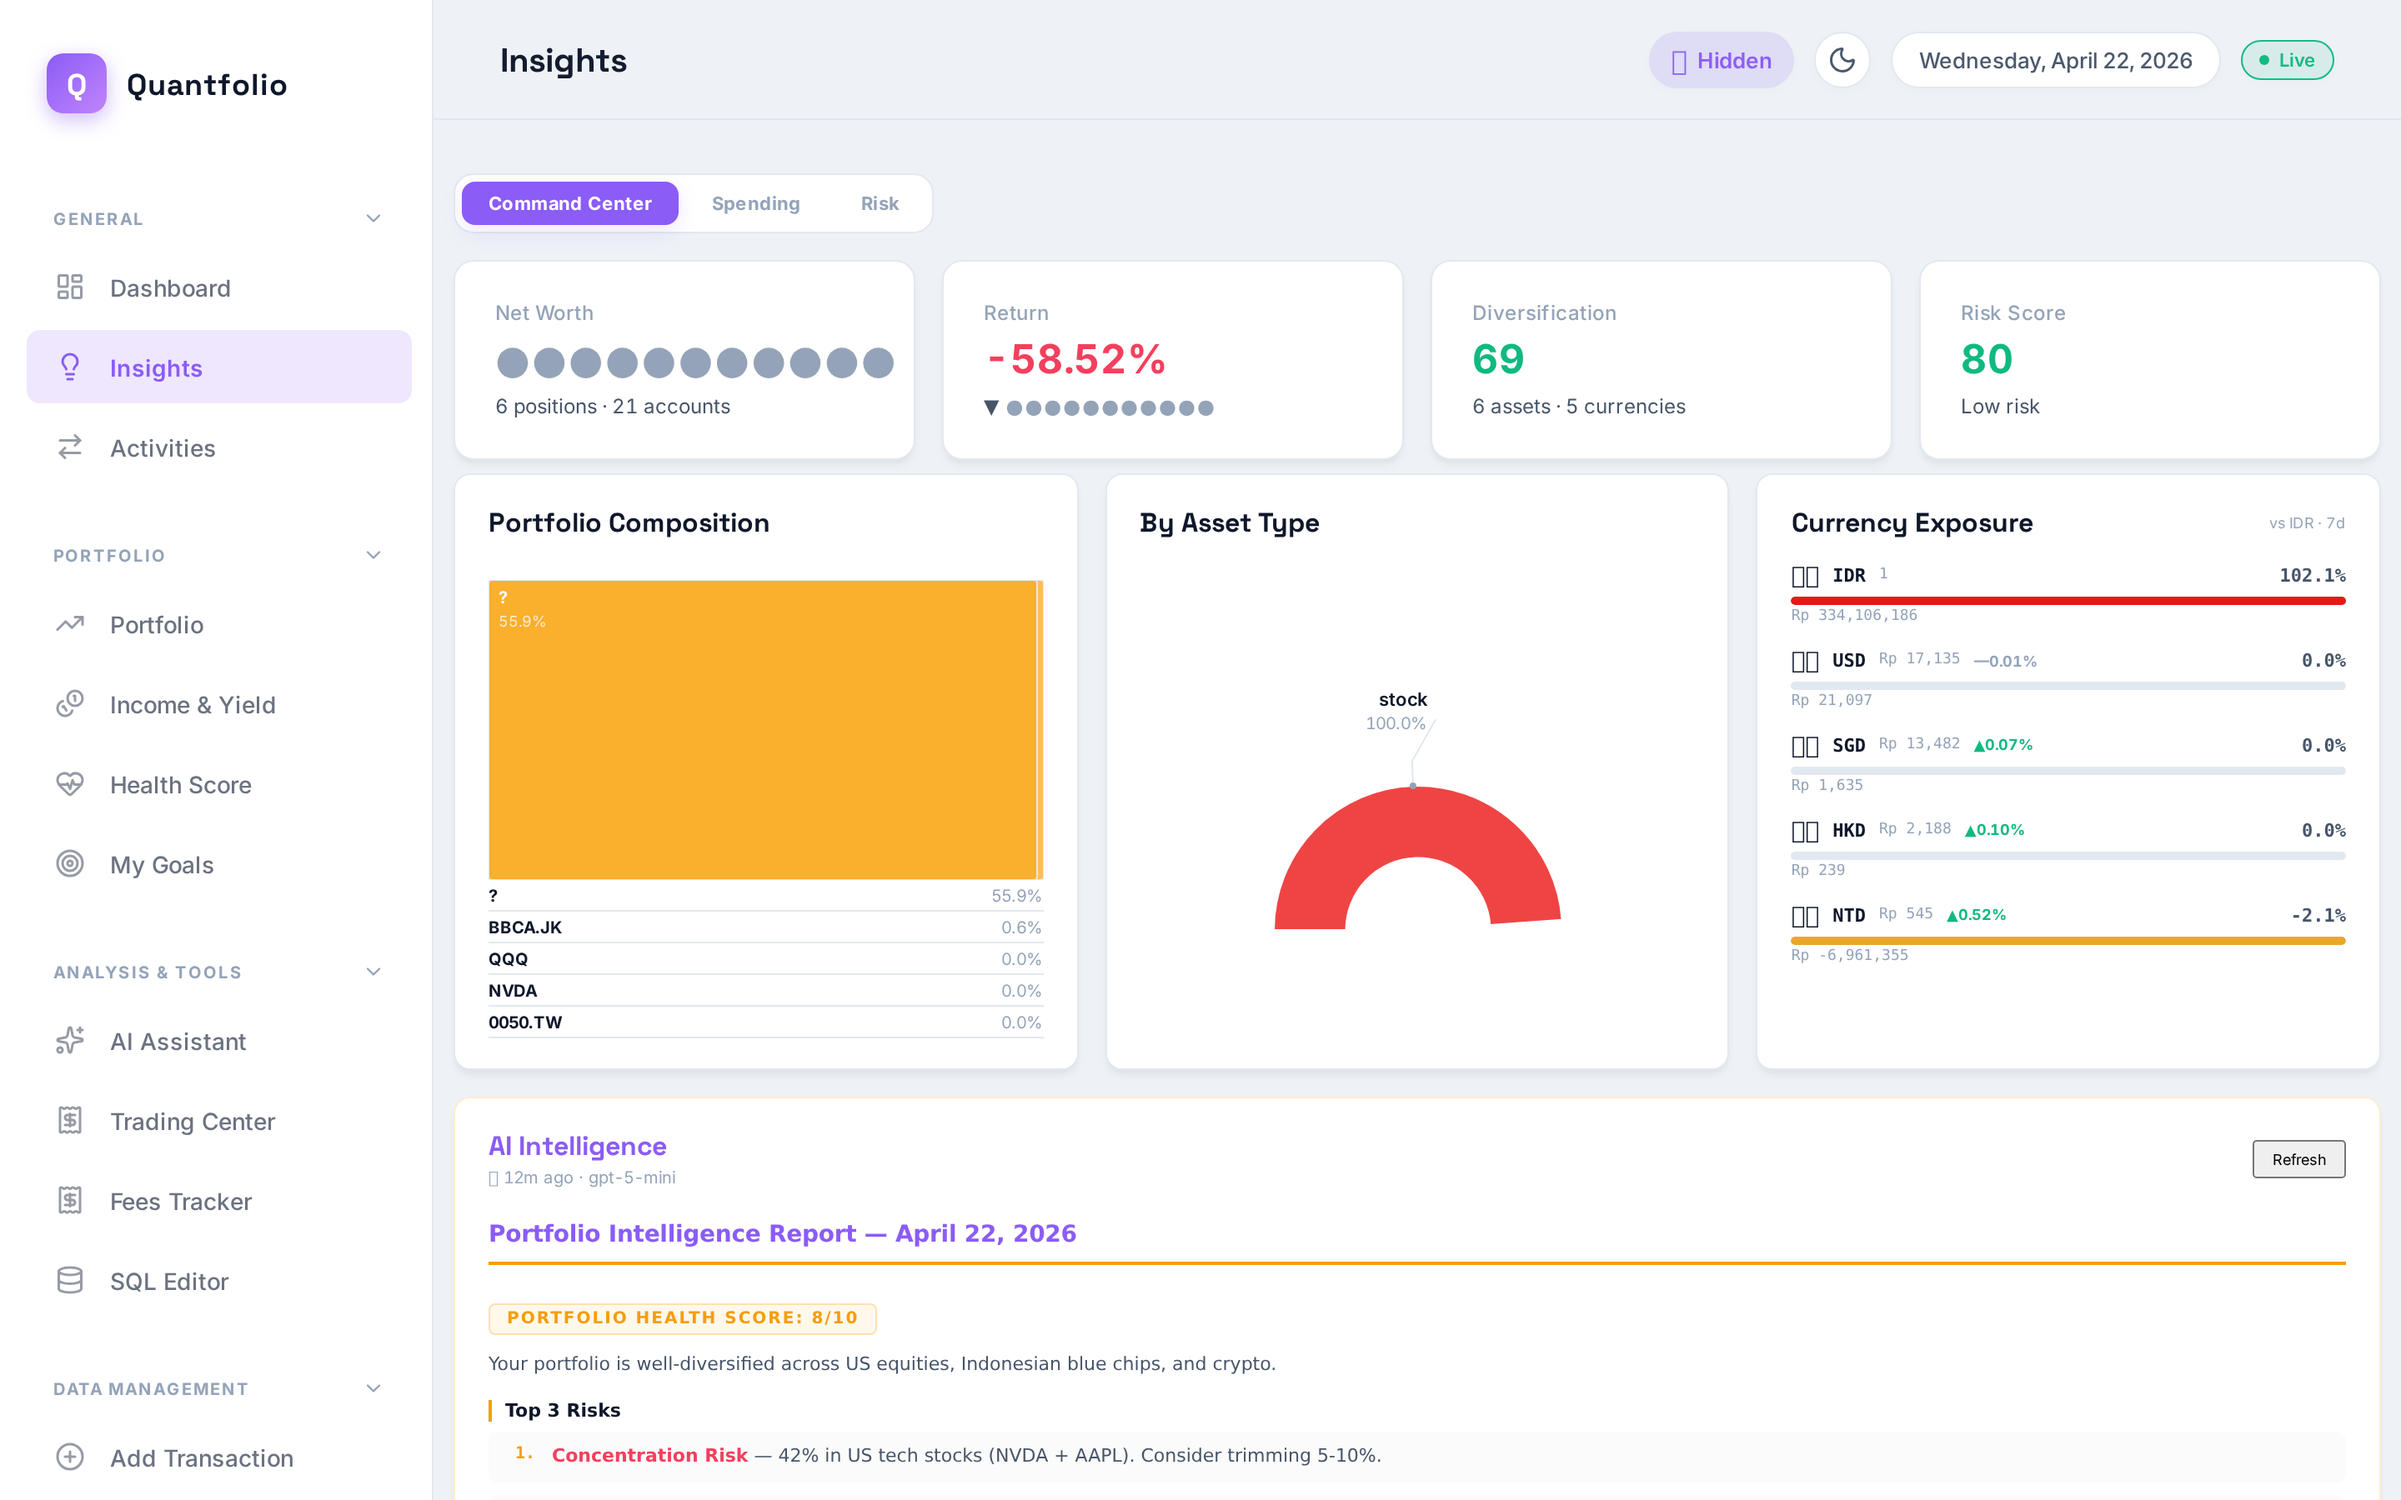
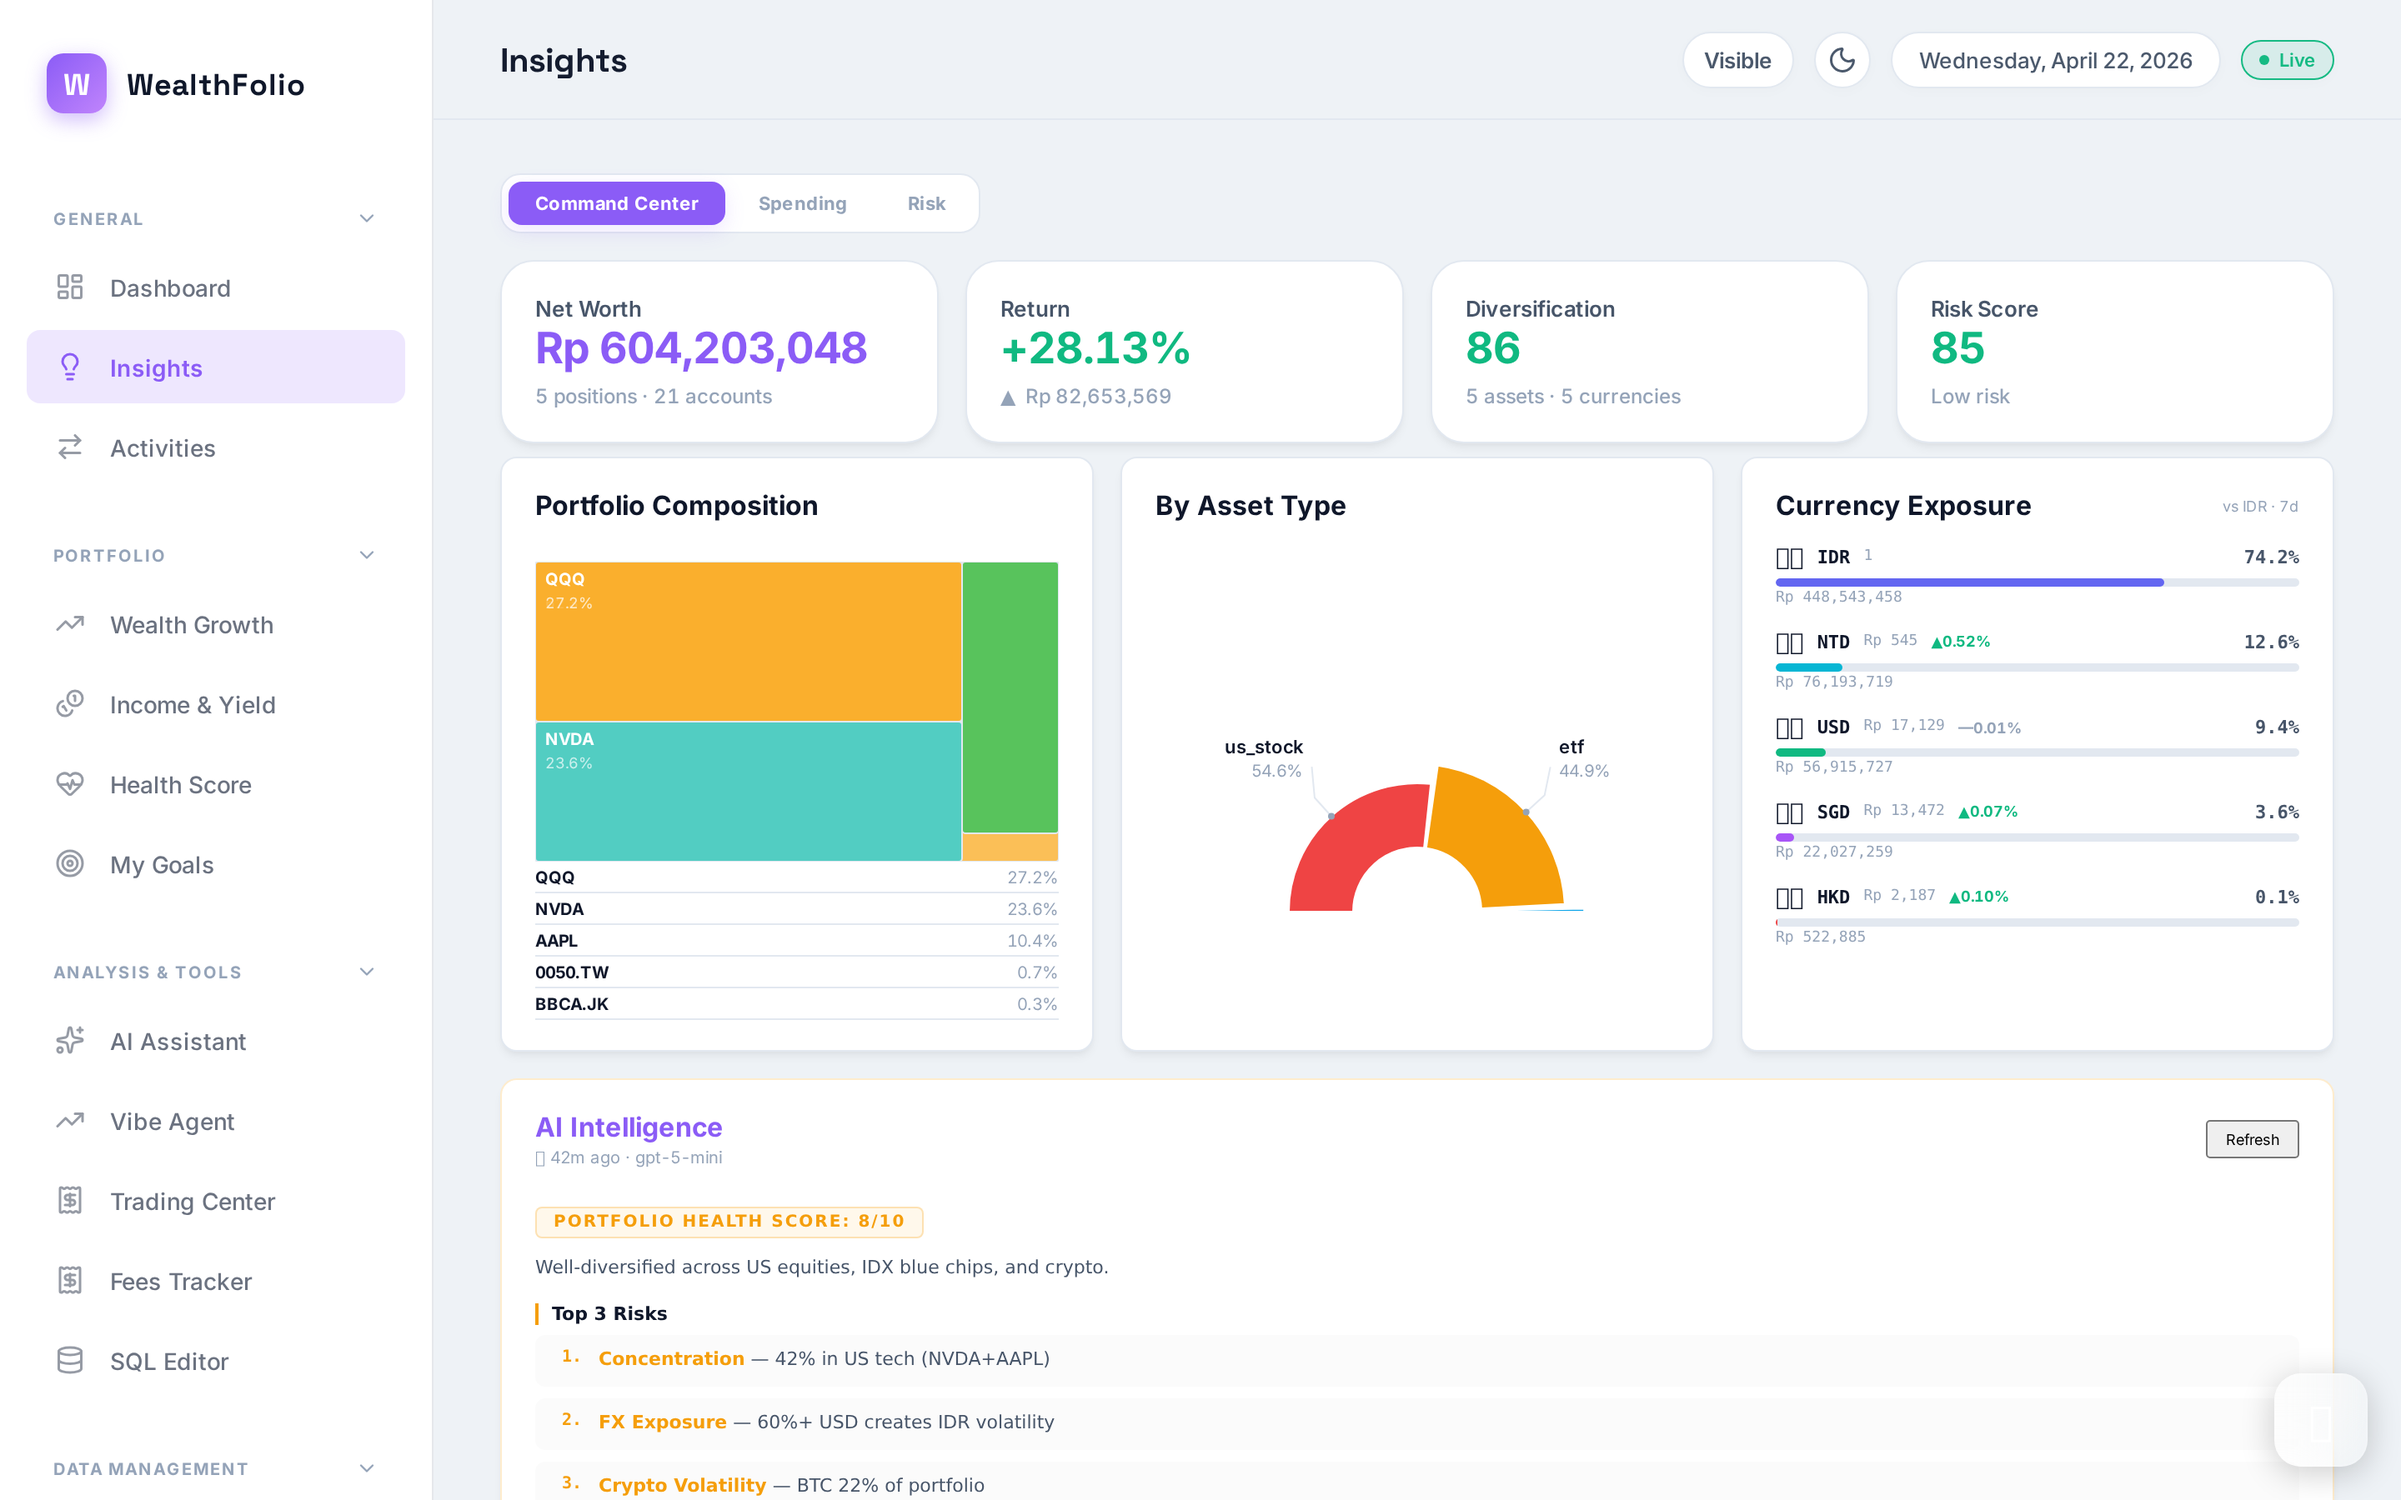
feat: add latest feature highlights and refresh screenshots
New features documented:
- Portfolio Health Score (6-dimension diagnostic engine)
- Income & Yield Tracking (multi-source analytics)
- Trading Center (trade journal with P&L)
- Fees Tracker (FX spread, brokerage costs)
- SQL Editor (direct Supabase queries)
- Import/Export tools
- Privacy Mode, Theme System, Mobile-First Design
- Real-Time Sync, Telegram Bot Integration

Updated screenshots from latest WealthFolio build (14 pages)

diff --git a/screenshots/README.md b/screenshots/README.md
@@ -1,83 +1,31 @@
-# 🖼 Screenshots
+# 📸 Screenshots — WealthFolio
 
-> ⚠ **Disclaimer:** All screenshots use fictional dummy data. No real financial data is shown.
+> **Note:** All data shown in screenshots is fictional dummy data for portfolio demonstration only.
 
-## Dashboard Overview
-![Dashboard](./_placeholder-dashboard.md)
+## Dashboard Pages
 
-*Main dashboard showing KPI cards, AI Insights widget, and portfolio summary.*
+| Page | Description |
+|---|---|
+| **[Dashboard](dashboard.png)** | Main overview — net worth summary, asset allocation, cash positions, portfolio breakdown, cash flow, AI insights |
+| **[Insights](insights.png)** | AI-generated portfolio intelligence — health score, risks, opportunities, rebalancing suggestions |
+| **[Activities](activities.png)** | Transaction history with filtering, search, category breakdown |
+| **[Wealth Growth](wealth-growth.png)** | Portfolio performance tracking — holdings detail, P&L, allocation charts, sparklines |
+| **[Income & Yield](income-yield.png)** | Income tracking — monthly trend, source breakdown, dividend tracking, yield analysis |
+| **[Health Score](health-score.png)** | Portfolio health diagnostics — diversification, cash buffer, FX exposure, concentration risk scoring |
+| **[My Goals](goals.png)** | Financial goals tracker — savings targets, progress tracking, deadline management |
 
-**What this demonstrates:**
-- Real-time multi-currency balance display
-- AI Insights widget with latest Quantfolio AI analysis
-- Glassmorphism dark-mode UI design
-- Privacy mode toggle (blur all numbers)
+## AI & Trading
 
----
+| Page | Description |
+|---|---|
+| **[AI Assistant](ai-assistant.png)** | Conversational AI chat — multi-turn context, portfolio-aware responses, scenario analysis |
+| **[Trading Center](trading-center.png)** | Trade journal — buy/sell records, matched trades, performance tracking |
+| **[Fees Tracker](fees-tracker.png)** | Fee analysis — brokerage fees, FX spread costs, management fee breakdown |
 
-## AI Insights Widget
-*Screenshot: AI widget with portfolio health score, risks, opportunities, and recommendations*
+## Tools & Settings
 
-**What this demonstrates:**
-- Live AI insight generation (GPT-4o powered)
-- Portfolio health score (1-10)
-- Risk identification and mitigation suggestions
-- Actionable opportunities and rebalancing targets
-- Cashflow tips and priority actions
-
----
-
-## Transactions Page
-*Screenshot: Transaction list with category filters and search*
-
-**What this demonstrates:**
-- Multi-currency transaction log (NTD, IDR, USD)
-- Category color-coding and filtering
-- FX-normalized amounts (amount_idr)
-- Responsive table with privacy mode compatibility
-
----
-
-## Holdings / Portfolio Page
-*Screenshot: Investment portfolio with P&L tracking*
-
-**What this demonstrates:**
-- Real-time portfolio valuation via market_data
-- Unrealized P&L with color-coded gains/losses
-- Asset type breakdown (stocks, ETFs, US stocks)
-- Current prices from TradingView (IDX) and Polygon (US)
-
----
-
-## Insights Page
-*Screenshot: AI analysis with portfolio allocation charts*
-
-**What this demonstrates:**
-- Asset allocation pie chart
-- Performance metrics and trends
-- AI-generated comprehensive financial analysis
-- Daily snapshot history
-
----
-
-## Telegram Bot Interaction
-*Screenshot: Bot conversation showing transaction input and confirmation*
-
-**Sample conversation (dummy data):**
-```
-User: makan siang 85 NT
-Bot:  ✅ NT$85 Food saved!
-      🍱 Today: NT$145/300 (48%)
-      💰 Left: NT$155
-
-User: coffee 65
-Bot:  ✅ NT$65 Food saved!
-      🍱 Today: NT$210/300 (70%)
-      💰 Left: NT$90 — Budget tight, dinner at NT$90 max!
-```
-
----
-
-> 📸 **To view actual screenshots:** Visit the live demo at [wealth.ignatiusharry.my.id](https://wealth.ignatiusharry.my.id)
->
-> Screenshots with dummy data will be added here. The live app uses the owner's personal Supabase instance.
+| Page | Description |
+|---|---|
+| **[SQL Editor](sql-editor.png)** | Direct database query interface — run custom SQL against Supabase, export results |
+| **[Import / Export](import-export.png)** | Data management — CSV import/export, bulk operations, data migration tools |
+| **[Settings](settings.png)** | App configuration — privacy mode, theme toggle, Telegram integration, account management |

diff --git a/README.md b/README.md
@@ -39,6 +39,89 @@
 
 ---
 
+## 🆕 Feature Highlights (Latest)
+
+### 🏥 Portfolio Health Score
+Automated diagnostic engine that evaluates portfolio across 6 dimensions:
+- **Diversification** — largest position concentration check
+- **Cash Buffer** — months of expenses covered by cash reserves
+- **FX Exposure** — foreign currency risk assessment
+- **Concentration Risk** — sector/asset class allocation balance
+- **Performance** — return vs benchmark comparison
+- **Rebalancing Need** — drift from target allocation
+
+Each check returns a score (0-100) with actionable advice.
+
+### 💰 Income & Yield Tracking
+Multi-source income analytics:
+- Monthly income trend with bar charts (Recharts)
+- Income breakdown by source (salary, dividends, interest, freelance)
+- Monthly average calculation across all time periods
+- Date filtering (1M, 3M, 6M, YTD, 1Y, ALL)
+
+### 📊 Trading Center
+Trade journaling with performance tracking:
+- Buy/sell transaction logging
+- Trade matching engine (pairing buys with sells)
+- Realized P&L calculation per trade
+- Brokerage fee tracking per transaction
+- Holdings aggregation from trade history
+
+### 💳 Fees Tracker
+Comprehensive fee analysis:
+- FX spread cost tracking (actual vs mid-market rate)
+- Brokerage fee aggregation
+- Management fee breakdown
+- Fee-to-returns ratio analysis
+
+### 🗄 SQL Editor
+Direct database query interface:
+- Run custom SQL queries against Supabase
+- Result table display with row count
+- Export query results
+- Syntax-aware input (for diagnostics & debugging)
+
+### 📥 Import / Export
+Data management tools:
+- CSV import for bulk transaction entry
+- Data export for external analysis
+- Bulk operations for data migration
+- Duplicate detection and cleanup
+
+### 🔒 Privacy Mode
+One-click privacy toggle:
+- Instantly blur all monetary amounts
+- Optimistic UI updates (no page reload)
+- Per-session preference via settings context
+
+### 🌓 Theme System
+Dynamic light/dark mode:
+- System preference detection
+- Manual toggle in topbar
+- CSS variables for consistent theming
+
+### 📱 Mobile-First Design
+Responsive layout with:
+- Collapsible sidebar navigation
+- Bottom navigation bar (5 key pages)
+- "More" menu with grid layout for secondary pages
+- Touch-optimized interactions
+
+### 🔔 Real-Time Sync
+Supabase Realtime subscriptions:
+- Auto-refresh on any database change
+- Toast notification on data updates
+- Real-time sync counter in topbar
+
+### 🤖 Telegram Bot Integration
+Transaction input via Telegram:
+- Natural language parsing ("makan siang 65 NTD")
+- Webhook-based architecture
+- Health monitoring with stale webhook detection
+- Settings page for connect/disconnect
+
+---
+
 ## 🛠 What Makes This Project Unique
 
 > Most personal finance apps are generic. WealthFolio is engineered specifically for **financial complexity** — multiple currencies, cross-border investments, and the need for AI that understands behavioral patterns, not just numbers.
@@ -156,7 +239,7 @@ Wealthfolio-Portfolio/
 | **Styling** | Vanilla CSS, Glassmorphism | Premium dark-mode UI |
 | **Backend** | Next.js API Routes | REST endpoints, cron jobs |
 | **Database** | Supabase (PostgreSQL) | Data storage, real-time |
-| **AI** | GitHub Copilot (GPT-4o), OpenRouter (gemini-2.0-flash) | Insights, classification |
+| **AI** | GitHub Copilot (GPT-5-mini), OpenRouter (gemini-2.0-flash) | Insights, classification |
 | **Market Data** | TradingView (IDX), Polygon (US) | Price feeds |
 | **Bot** | Telegram Bot API | Transaction input |
 | **Orchestration** | OpenClaw (VPS) | AI routing, market data jobs |
